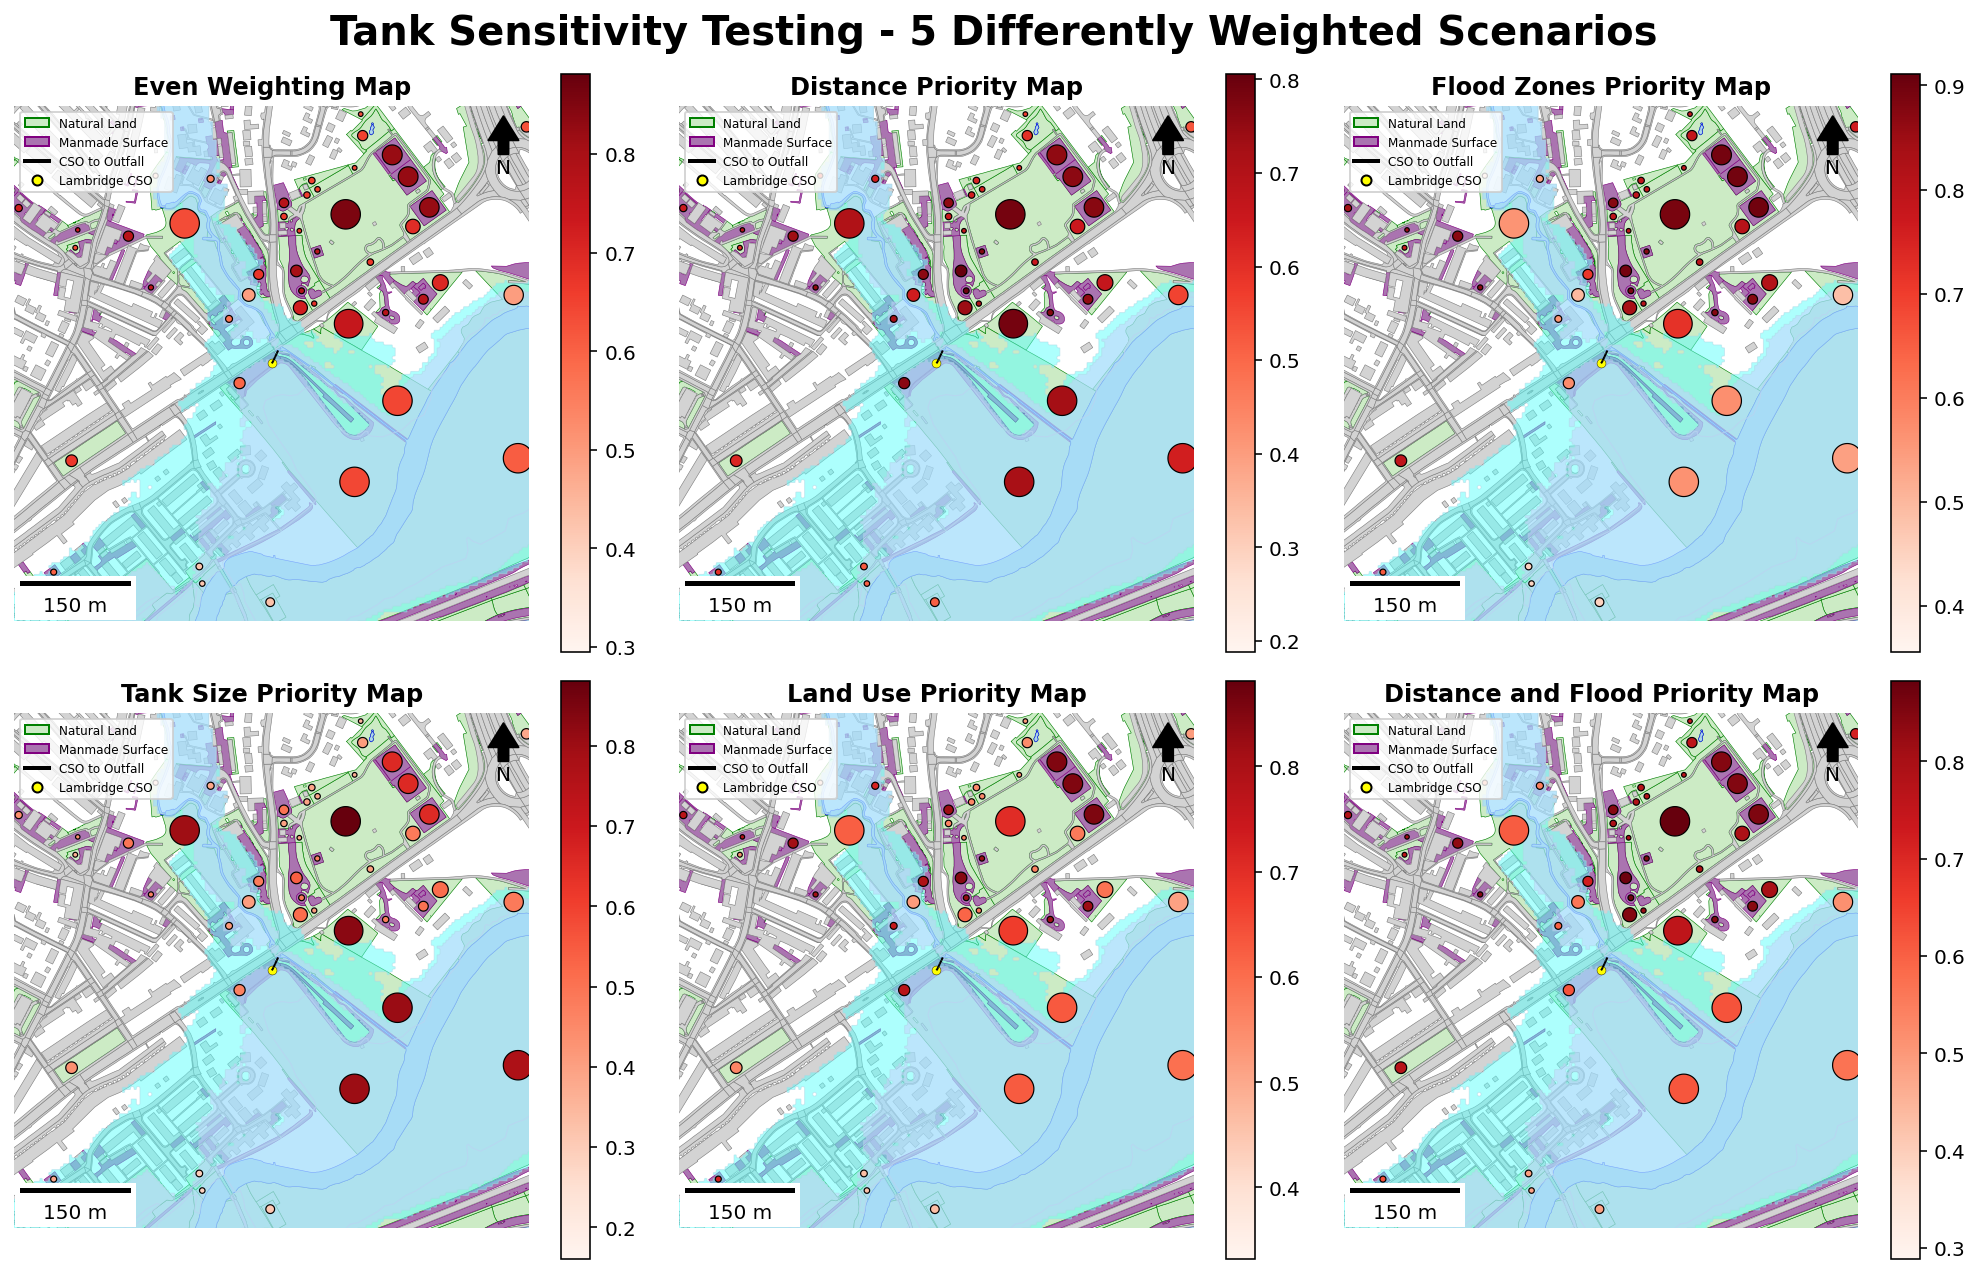
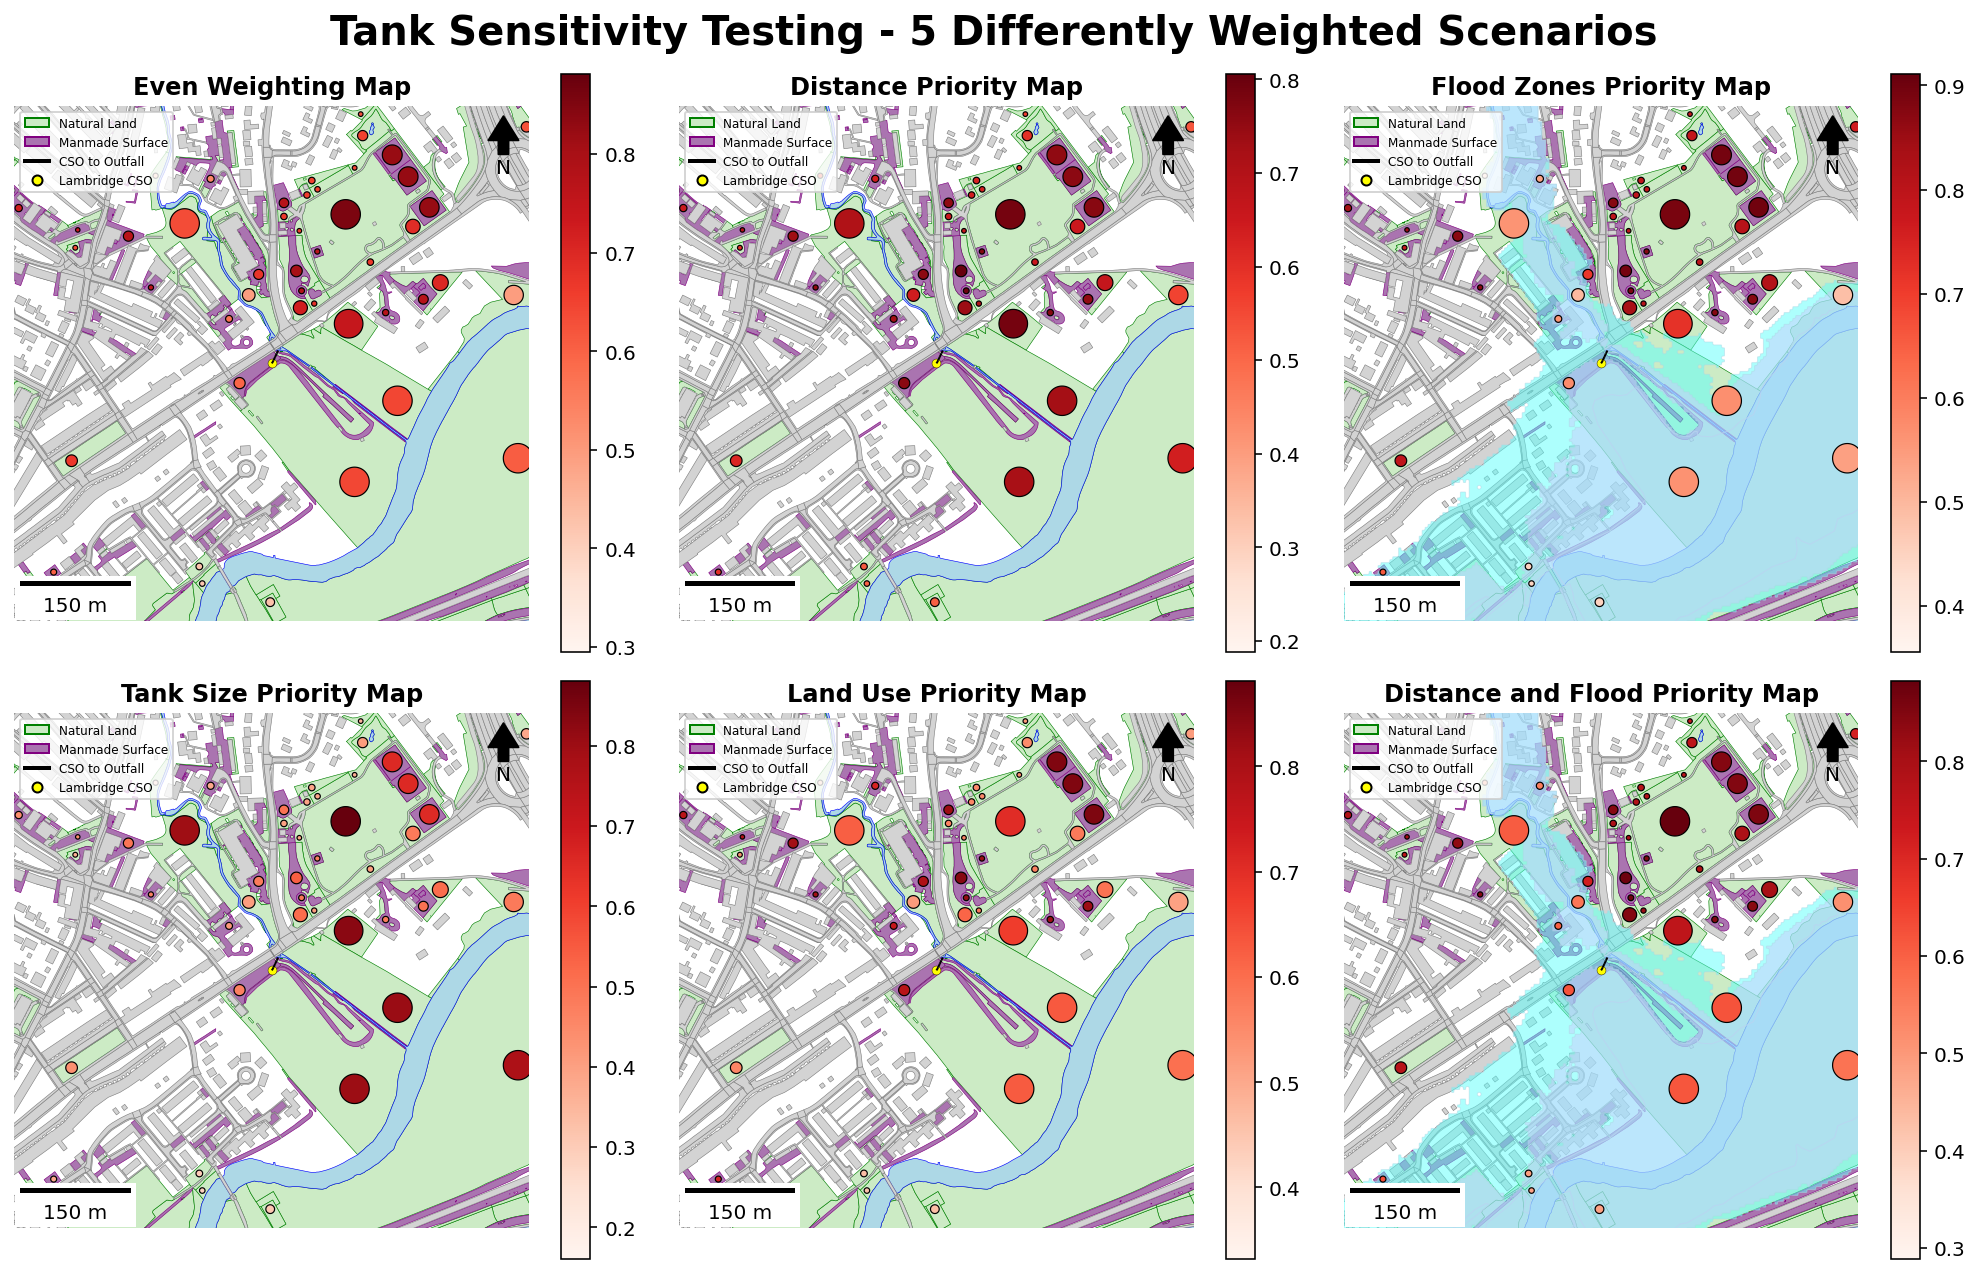
worked for 2 scenarios !!
now need to change it so that the legend also does that

diff --git a/dissertation-code.py b/dissertation-code.py
@@ -587,7 +587,7 @@ for idx, (ax, (scenario_name, weights)) in enumerate(zip(axes, scenarios.items()
 
     #plotting flood zones -----
     # only for scenarios 3 and 6 - with flood zones 
-    if scenario_name == "Flood Zones Priority" or "Distance and Flood Priority":
+    if scenario_name in ["Flood Zones Priority", "Distance and Flood Priority"]:
         
         #flood zone 2
         floodzone_2.plot(ax = ax, color = '#5CFFFC', edgecolor = 'lightblue',  linewidth = 0.5, alpha=0.5)
@@ -595,8 +595,6 @@ for idx, (ax, (scenario_name, weights)) in enumerate(zip(axes, scenarios.items()
         #flood zone 3
         floodzone_3.plot(ax = ax, color = '#CACFFC', edgecolor = 'lightblue',  linewidth = 0.5, alpha=0.5)
     
-    else: 
-        continue
 
     # plotting MIC safe circles -------
     #natural land MIC
